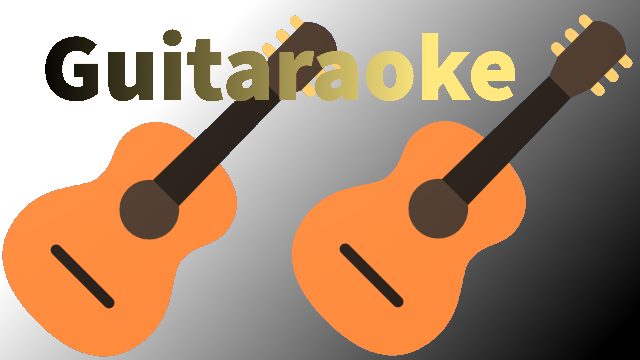
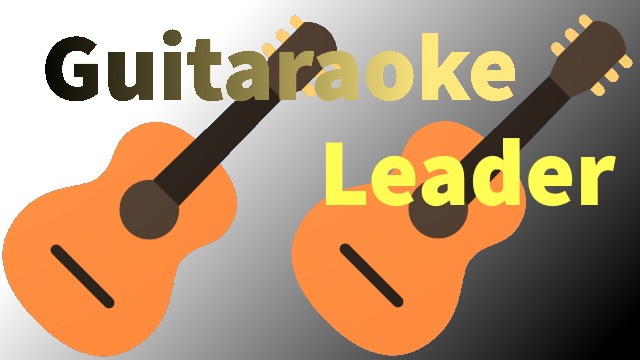
project renamed

diff --git a/app/src/main/assets/guitaraokewebapp/js/index.js b/app/src/main/assets/guitaraokewebapp/js/index.js
@@ -37,7 +37,7 @@ function connect_to_guitaraoke_server() {
         //console.log(`[message] : ${msg.data}`);
         if (msg.data.startsWith("song: ")) {
             let song_name = msg.data.substring(6);
-            state_transition_from_waiting_to_song_load(song_name);
+            state_transition_from_waiting_to_song_load(song_url);
         } else if (msg.data == "play!") {
             state_transition_from_song_load_to_play();
         } else if (msg.data == "stop!") {
@@ -70,9 +70,7 @@ function state_ui_waiting() {
     page_state = PageState.Waiting;
     cm.el("div_follower").hidden = false;
     cm.el("div_connection_lost").hidden = true;
-    video_video.pause();
-    video_video.src = "videos/Welcome to Guitaraoke Leader.mp4";
-    video_video.load();
+    song_load("videos/Welcome to Guitaraoke Leader.mp4");
 }
 
 function state_ui_song_load() {
@@ -100,10 +98,10 @@ function state_ui_connection_lost() {
 
 // region: state transition
 
-function state_transition_from_waiting_to_song_load(song_name) {
+function state_transition_from_waiting_to_song_load(song_url) {
     state_ui_song_load();
-    console.log("song_load: " + song_name);
-    cm.song_load(song_name);
+    console.log("song_load: " + song_url);
+    cm.song_load(song_url);
     video_video.poster = "Poster.jpg";
 }
 

diff --git a/app/src/main/assets/guitaraokewebapp/js/common.js b/app/src/main/assets/guitaraokewebapp/js/common.js
@@ -38,9 +38,10 @@ export function connect_to_guitaraoke_server() {
     };
 }
 
-export function song_load(song_name) {
-    video_video.src = "videos/" + song_name + " - guitaraoke.mp4";
+export function song_load(song_url) {
+    video_video.src = song_url;
     video_video.load();
+    video_video.preload = "auto";
 }
 
 export function getRandomInt(min, max) {

diff --git a/app/src/main/java/dev/bestia/guitaraokeleader/WebServer.java b/app/src/main/java/dev/bestia/guitaraokeleader/WebServer.java
@@ -143,45 +143,40 @@ public class WebServer extends NanoHTTPD {
         sync_clock_received_timestamp = System.currentTimeMillis();
         String content;
         String mimeType="text/html";
-        // some dynamic content must be fast. It does not need to check files.
-        if (session.getUri().equals("/sync_clock.html")) {
-            content = String.valueOf(sync_clock_received_timestamp) + " " + String.valueOf(System.currentTimeMillis());
-        } else {
-            // files are in assets/guitaraokewebapp/
-            // except videos are in externalStorage. I will enable to manually download videos from urls.
-            String filepath = getFilePath(session.getUri());
-            mimeType = getMimeType(filepath);
+        // files are in assets/guitaraokewebapp/
+        // except videos are in externalStorage. I will enable to manually download videos from urls.
+        String filepath = getFilePath(session.getUri());
+        mimeType = getMimeType(filepath);
 
-            byte[] buffer;
-            InputStream is;
-            try {
-                if (filepath.startsWith("videos/")) {
-                    String path = main_activity.getExternalFilesDir("").getPath() + "/" + filepath;
-                    File file = new File(path);
-                    is = new FileInputStream(file);
-                } else {
-                    is = this.assetManager.open("guitaraokewebapp/" + filepath);
-                }
-                if (binaryResponse(mimeType)) {
-                    return newFixedLengthResponse(Response.Status.OK, mimeType, is, -1);
-                }
-                int size = is.available();
-                buffer = new byte[size];
-                int len = is.read(buffer);
-                if (len == -1) {
-                    printLine("len = -1");
-                }
-                is.close();
-                content = new String(buffer);
-
-                // modify static files with dynamic content
-                content = dynamic_content(filepath, content, session);
-
-            } catch (IOException e) {
-                printLine("IOException (at serve): " + e.getMessage());
-                mimeType = "text/html";
-                content = "<html><body><h1>IOException</h1>\n<p>" + e.getMessage() + "</p>\n<p>Serving " + session.getUri() + " !</p></body></html>\n";
+        byte[] buffer;
+        InputStream is;
+        try {
+            if (filepath.startsWith("videos/")) {
+                String path = main_activity.getExternalFilesDir("").getPath() + "/" + filepath;
+                File file = new File(path);
+                is = new FileInputStream(file);
+            } else {
+                is = this.assetManager.open("guitaraokewebapp/" + filepath);
             }
+            if (binaryResponse(mimeType)) {
+                return newFixedLengthResponse(Response.Status.OK, mimeType, is, -1);
+            }
+            int size = is.available();
+            buffer = new byte[size];
+            int len = is.read(buffer);
+            if (len == -1) {
+                printLine("len = -1");
+            }
+            is.close();
+            content = new String(buffer);
+
+            // modify static files with dynamic content
+            content = dynamic_content(filepath, content, session);
+
+        } catch (IOException e) {
+            printLine("IOException (at serve): " + e.getMessage());
+            mimeType = "text/html";
+            content = "<html><body><h1>IOException</h1>\n<p>" + e.getMessage() + "</p>\n<p>Serving " + session.getUri() + " !</p></body></html>\n";
         }
         return newFixedLengthResponse(Response.Status.OK, mimeType, content);
     }
@@ -199,7 +194,7 @@ public class WebServer extends NanoHTTPD {
     private String leader_html_list_of_songs(){
         StringBuilder new_html=new StringBuilder();
         for (File file:main_activity.getExternalVideosFolder().listFiles()){
-            String song_name = file.getName().replace(" - guitaraoke.mp4","");
+            String song_name = file.getName().replace(" - guitaraoke.mp4","").replace(".mp4","");
             new_html.append("<div class='class_song_name'>"+ Utils.escapeHtml(song_name)+"</div>\n");
         }
         return new_html.toString();

diff --git a/app/src/main/java/dev/bestia/guitaraokeleader/MainActivity.java b/app/src/main/java/dev/bestia/guitaraokeleader/MainActivity.java
@@ -61,8 +61,8 @@ public class MainActivity extends AppCompatActivity {
             // finish will call onDestroy where is stop servers
             finish();
         });
-        TextView button_show_server =  findViewById(R.id.button_show);
-        button_show_server.setOnClickListener(view -> {
+        TextView button_show_log =  findViewById(R.id.button_show);
+        button_show_log.setOnClickListener(view -> {
             AlertDialog.Builder alertDialogBuilder = new AlertDialog.Builder(this);
             // size of dialog 90% of screen
             int width = (int)(getResources().getDisplayMetrics().widthPixels*0.90);
@@ -211,7 +211,8 @@ public class MainActivity extends AppCompatActivity {
         File videos_folder = getExternalVideosFolder();
         File welcome_external_file = new File(videos_folder, "Welcome to Guitaraoke Leader.mp4");
         if (!welcome_external_file.exists()) {
-            String welcome_asset = "guitaraoke_client/videos/Welcome to Guitaraoke Leader.mp4";
+            Log.w("w","!welcome_external_file.exists()");
+            String welcome_asset = "guitaraokewebapp/videos/Welcome to Guitaraoke Leader.mp4";
             AssetManager assetManager = getAssets();
             InputStream in = null;
             OutputStream out = null;

diff --git a/README.md b/README.md
@@ -160,12 +160,11 @@ The Followers need only to see the lyrics. The sound will come only from the Lea
 
 ## WebView
 
-Having separate app for the server and open Chrome for the Leader page didn't work out, because the server went to sleep when there was no user interaction. I added a WebView in the app and now the Leader page is inside the app. The server text for debugging is now accessible with the button `show server`.  
+Having separate app for the server and open Chrome for the Leader page didn't work out, because the server went to sleep when there was no user interaction. I added a WebView in the app and now the Leader page is inside the app. The server text for debugging is now accessible with the button `Show log`.  
 
 ## TODO
 
-1. name Guitaraoke is too broad. `Guitaraoke Leader` for Android sounds good.
-    guitaraoke_client -> guitaraoke_web_app, guitaraoke_client.css -> guitaraoke.css
+1. name Guitaraoke is too broad. `Guitaraoke Leader` for Android sounds good.    
     mp4 does not need to finish in ` - guitaraoke`
 2. better colors, fonts, visuals
 3. leader page can create QR-code with Follower page
